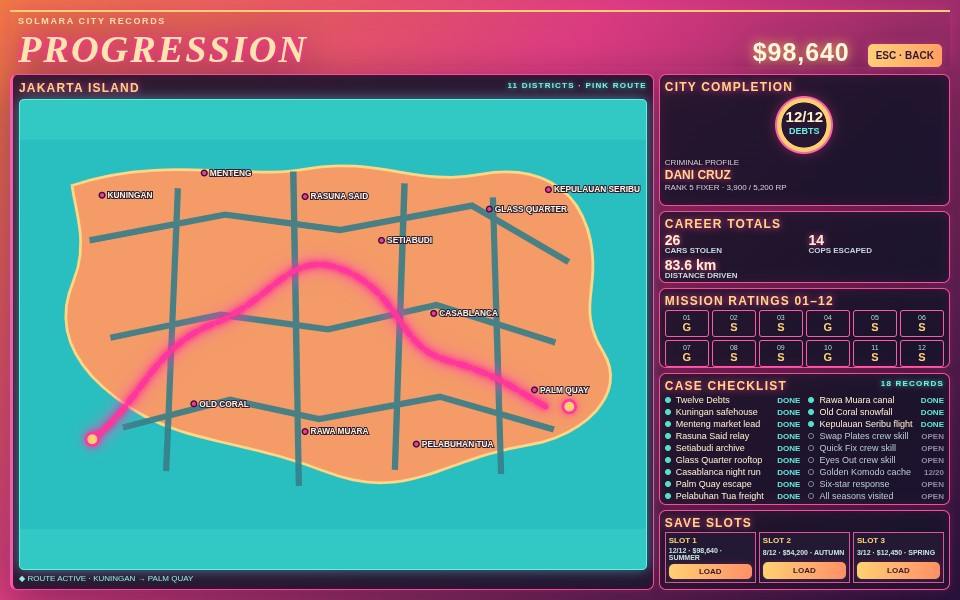
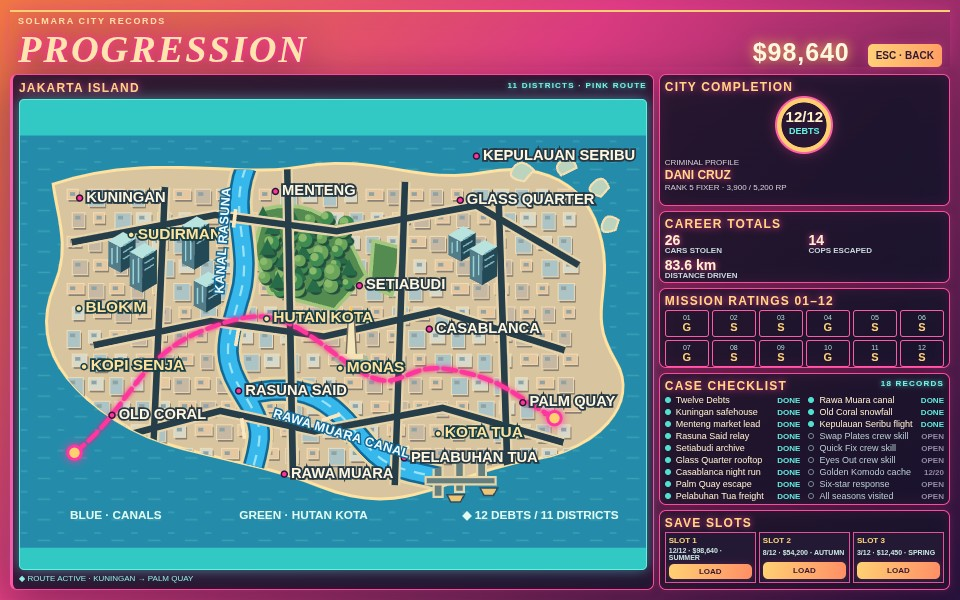
Bring Jakarta island map to life with canals forest and city detail

diff --git a/game/src/hud.js b/game/src/hud.js
@@ -141,9 +141,26 @@ export function drawHud(game){
   roster(game);drawLoadout(game);drawRadar(el('map'),game);
 }
 function cityMap(){
-  // The 900×560 viewBox keeps all eleven district labels in the island's original proportions.
-  const districts=[['KUNINGAN',118,80],['MENTENG',265,48],['RASUNA SAID',410,82],['SETIABUDI',520,145],['GLASS QUARTER',675,100],['CASABLANCA',595,250],['PALM QUAY',740,360],['PELABUHAN TUA',570,438],['RAWA MUARA',410,420],['OLD CORAL',250,380],['KEPULAUAN SERIBU',760,72]];
-  return '<svg class="jakarta-map" viewBox="0 0 900 560" role="img" aria-label="Jakarta island map with pink route"><path class="map-water" d="M0 0h900v560H0z"/><path class="map-land" d="M75 66C205 22 328 58 408 43c110-20 159 25 254 7 81-15 135 18 154 78 25 82-20 109 23 178 36 59-28 121-107 133-126 20-174 85-294 38-112-44-201-40-279-91-83-54-111-115-82-183 22-53 3-96-2-137z"/><path class="map-road" d="M100 145L295 108 460 130 650 95 789 176M130 285L289 252 443 273 599 238 770 292M148 414L302 374 430 402 604 370 768 417M227 70L210 477M393 46L401 498M553 63L539 475M680 83L692 481"/><path class="map-route" d="M104 431C175 377 189 300 278 265S388 153 469 189s74 109 146 129 84 34 141 66"/><circle class="map-pin" cx="104" cy="431" r="9"/><circle class="map-pin" cx="790" cy="384" r="9"/>'+districts.map(([n,x,y])=>'<g class="map-label" transform="translate('+x+' '+y+')"><circle r="4"/><text x="8" y="4">'+n+'</text></g>').join('')+'</svg>';
+  const shore='M75 66C205 22 328 58 408 43c110-20 159 25 254 7 81-15 135 18 154 78 25 82-20 109 23 178 36 59-28 121-107 133-126 20-174 85-294 38-112-44-201-40-279-91-83-54-111-115-82-183 22-53 3-96-2-137z';
+  const districts=[['KUNINGAN',111,85],['MENTENG',377,76],['RASUNA SAID',327,347],['SETIABUDI',491,204],['GLASS QUARTER',628,88],['CASABLANCA',586,263],['PALM QUAY',713,363],['PELABUHAN TUA',552,438],['RAWA MUARA',389,460],['OLD CORAL',155,380],['KEPULAUAN SERIBU',650,28]];
+  const roads='M100 145L295 108 460 130 650 95 789 176M130 285L289 252 443 273 599 238 770 292M148 414L302 374 430 402 604 370 768 417M227 70L210 447M393 46L401 478M553 63L539 475M680 83L692 451';
+  const river='M337 43C312 105 347 153 329 217S301 301 335 353 353 418 340 478M335 353C422 329 458 368 491 409S536 451 602 465';
+  const forest='M362 100Q432 81 478 143L500 190 457 237 369 214 347 158ZM510 143L549 153 535 217 505 205Z';
+  let blocks='',trees='',towers='';
+  // Repeated parcels have different footprints, courtyards and roof terraces.
+  for(let row=0;row<12;row++)for(let col=0;col<24;col++){
+    const x=94+col*29+(row%2)*7,y=73+row*32,k=(col*7+row*11)%9;
+    blocks+='<g transform="translate('+x+' '+y+')"><rect x="2" y="3" width="'+(15+k)+'" height="'+(14+k%4*3)+'" rx="1" fill="#8c8174"/><path d="M0 0h'+(15+k)+'v'+(14+k%4*3)+'H0z" fill="'+['#e5c7a1','#d7d9cb','#c7b8a3','#acc4c5'][k%4]+'" stroke="#f2dfb7" stroke-width="1.2"/><path d="M4 4h7v5H4z" fill="#8fa3a4"/></g>';
+  }
+  for(let i=0;i<54;i++){
+    const x=360+(i*37%118),y=111+(i*43%101),r=7+i%5;
+    trees+='<g transform="translate('+x+' '+y+')"><ellipse cx="3" cy="5" rx="'+r+'" ry="'+(r*.7)+'" fill="#244f3e"/>'+(i%3===0?'<path d="M0 -15L11 7H-11Z" fill="#286b48"/>':'<circle r="'+r+'" fill="'+(i%2?'#3f8c52':'#6ba45b')+'"/><circle cx="-3" cy="-3" r="'+r*.55+'" fill="#8bb96b"/>')+'</g>';
+  }
+  for(const [x,y,h] of [[150,177,34],[179,204,46],[250,173,51],[266,231,34],[612,162,27],[641,194,40]]){
+    towers+='<g transform="translate('+x+' '+y+')"><path d="M0 0l17 9 20 -12 -17 -9z" fill="#365968"/><path d="M0 0v-'+h+'l17 9V9z" fill="#527c8a"/><path d="M17 9v-'+h+'l20 -12v'+h+'z" fill="#234957"/><path d="M0 -'+h+'l20 -12 17 9 -20 12z" fill="#b9e3df"/><path d="M5 -'+(h-10)+'v'+(h-12)+'m7 -'+(h-10)+'v'+(h-12)+'" stroke="#99d6d9" stroke-width="2"/><path d="M20 -'+(h-7)+'l13 -8m-13 17l13 -8m-13 17l13 -8" stroke="#7fb2bb" stroke-width="2"/></g>';
+  }
+  const label=(n,x,y,cls='map-label')=>'<g class="'+cls+'" transform="translate('+x+' '+y+')"><circle r="4"/><text x="9" y="5">'+n+'</text></g>';
+  return '<svg class="jakarta-map" viewBox="30 0 850 540" role="img" aria-label="Living Jakarta: Kanal Rasuna and Rawa Muara canals, Hutan Kota forest, downtown towers, port and eleven named districts"><defs><clipPath id="island-shore"><path d="'+shore+'"/></clipPath><pattern id="sea-ripples" width="50" height="28" patternUnits="userSpaceOnUse"><path d="M4 18h17m10 -10h9" stroke="#80d7d5" stroke-opacity=".25" stroke-width="2"/></pattern></defs><path class="map-water" d="M0 0h900v560H0z"/><path d="M0 0h900v560H0z" fill="url(#sea-ripples)"/><path class="map-land" d="'+shore+'"/><g clip-path="url(#island-shore)">'+blocks+'<path d="'+forest+'" fill="#548b50" stroke="#a3c77d" stroke-width="5"/>'+trees+'<path d="'+river+'" fill="none" stroke="#ecd6a3" stroke-width="37"/><path d="'+river+'" fill="none" stroke="#126997" stroke-width="29"/><path d="'+river+'" fill="none" stroke="#37b8ed" stroke-width="22"/><path d="'+river+'" fill="none" stroke="#9ae3f7" stroke-width="3" stroke-dasharray="15 12"/><path d="'+roads+'" fill="none" stroke="#e9d5ac" stroke-width="15"/><path class="map-road" d="'+roads+'"/><path d="M323 100l-3 25m7 137l-4 24m8 98l4 28m105 -25l25 -8m68 51l26 -7" stroke="#fbe6be" stroke-width="5"/>'+towers+'<g transform="translate(480 285)"><ellipse cy="19" rx="23" ry="9" fill="#afba9c"/><path d="M-7 14L-4 -39 4 -39 7 14Z" fill="#f5e5ba" stroke="#766e61" stroke-width="2"/><path d="M-5 -40L0 -55 5 -40Z" fill="#ffc654"/><path d="M-16 15h32" stroke="#f4e2b4" stroke-width="7"/></g></g><g fill="#bcd4bd" stroke="#f5deb1" stroke-width="3"><path d="M728 47q-17 -18 -28 -3t15 18zM786 44q-5 -17 -19 -10t-2 20zM830 71q-7 -20 -21 -7t10 19zM843 115q-17 -12 -22 5t18 8z"/></g><g fill="#657e7e" stroke="#e8d5aa" stroke-width="3"><path d="M592 453v38h12v-41m17 -5v39h12v-43m18 -5v37h12v-42"/><path d="M581 464h95v10h-95z"/></g><g fill="#edc575" stroke="#314e61" stroke-width="2"><path d="M610 488h24l-6 10h-13zM655 479h24l-6 10h-13z"/></g><path class="map-route" d="M104 431C175 377 189 300 278 265S388 243 469 305s74 0 146 13 84 34 141 66"/><circle class="map-pin" cx="104" cy="431" r="9"/><circle class="map-pin" cx="756" cy="384" r="9"/>'+districts.map(([n,x,y])=>label(n,x,y)).join('')+[['KOPI SENJA',117,314],['BLOK M',110,235],['KOTA TUA',598,405],['SUDIRMAN',181,135],['HUTAN KOTA',365,249],['MONAS',465,316]].map(([n,x,y])=>label(n,x,y,'map-place')).join('')+'<g class="map-canal"><text transform="translate(306 215) rotate(-86)">KANAL RASUNA</text><text transform="translate(373 382) rotate(17)">RAWA MUARA CANAL</text></g><g class="map-key" transform="translate(98 521)"><text>BLUE · CANALS</text><text x="230">GREEN · HUTAN KOTA</text><text x="533">◆ 12 DEBTS / 11 DISTRICTS</text></g></svg>';
 }
 export function drawRecords(game){
   const p=game.profile,done=game.statsShot?12:Math.min(12,p.done||0),cash=game.statsShot?98640:p.cash||0;

diff --git a/game/src/radar.js b/game/src/radar.js
@@ -1,7 +1,7 @@
 import {canal,canalX,park,services,streets,cross} from './district.js';
 
 const center=200, radius=190;
-const colors={road:'#252832',edge:'#f2e3bc',water:'#2698d6',bank:'#e7cea0',park:'#78a267'};
+const colors={road:'#252832',edge:'#f2e3bc',water:'#23a6e5',bank:'#e7cea0',park:'#67994e'};
 export function radarProject(player,x,z,scale=1.45){
   return [center+(x-player.x)*scale,center-(z-player.z)*scale];
 }
@@ -44,10 +44,13 @@ export function drawRadar(canvas,game) {
     rect(x+36,z+36,44,44,'#e9dfc9');
   }
   rect(park.x,park.z,park.w,park.d,colors.park);
-  rect(park.x,park.z,2.5,park.d,'#dad0ad');rect(park.x,park.z,park.w,2.5,'#dad0ad');
+  rect(park.x,park.z,1.8,park.d,'#e5d8ad');rect(park.x,park.z,park.w,1.8,'#e5d8ad');
   for(const tree of game.city.trees){
     const [a,b]=project(tree.x,tree.z);
-    circle(ctx,a+1,b+2,3.4,'#597653');circle(ctx,a,b,2.8,'#407447');
+    circle(ctx,a+2,b+3,6.5,'#285c3e');
+    if(Math.round(tree.x)%3===0){
+      ctx.beginPath();ctx.moveTo(a,b-8);ctx.lineTo(a+6,b+5);ctx.lineTo(a-6,b+5);ctx.closePath();ctx.fillStyle='#2d7546';ctx.fill();
+    }else{circle(ctx,a,b,5.7,'#39884b');circle(ctx,a-1.8,b-1.8,3,'#94bb6d');}
   }
   const path=canal.map(([x,z])=>project(x,z));
   stroke(ctx,path,22*scale,colors.bank);stroke(ctx,path,12*scale,colors.water);
@@ -60,13 +63,18 @@ export function drawRadar(canvas,game) {
   for(const z of cross){
     const line=[project(-350,z),project(420,z)];
     stroke(ctx,line,22*scale,colors.edge);stroke(ctx,line,17*scale,colors.road);
+    const [bx,by]=project(canalX(z),z);
+    stroke(ctx,[[bx-12*scale,by-10*scale],[bx+12*scale,by-10*scale]],2.6,'#fff0c9');
+    stroke(ctx,[[bx-12*scale,by+10*scale],[bx+12*scale,by+10*scale]],2.6,'#fff0c9');
   }
   for(const b of game.city.buildings){
     if(Math.abs(b.x-p.x)>130||Math.abs(b.z-p.z)>135)continue;
     rect(b.x+1.3,b.z-1.6,b.w,b.d,'#97998c');
     rect(b.x,b.z,b.w,b.d,b.roof);
-    rect(b.x+.7,b.z+.5,b.w*.82,b.d*.75,'#c4c6be');
+    rect(b.x+.7,b.z+.5,b.w*.82,b.d*.75,b.h>30?'#7a9da9':'#bdbaa3');
     rect(b.x+b.w*.14,b.z-b.d*.12,b.w*.26,b.d*.28,'#eae9dc');
+    rect(b.x-b.w*.24,b.z+b.d*.2,b.w*.24,b.d*.22,'#eef0d6');
+    rect(b.x,b.z-b.d*.47,b.w*.83,1.2,'#536d76');
     rect(b.x-4.4,b.z+b.d*.39,.6,1.25,'#ffcb5f');
     rect(b.x+3.6,b.z+b.d*.39,.6,1.25,'#ffcc69');
   }
@@ -91,7 +99,10 @@ export function drawRadar(canvas,game) {
   const [lx,ly]=project(2,p.z-69);
   if(lx>126&&lx<277)caption(ctx,'JL. RASUNA SAID',lx+34,ly,14);
   const [px,py]=project(park.x,park.z);
-  if(Math.hypot(px-center,py-center)<142)caption(ctx,'MENTENG',px,py+17,13,'#fff4b9');
+  if(Math.hypot(px-center,py-center)<142){
+    caption(ctx,'HUTAN KOTA',px,py+17,16,'#e6ffbc');
+    caption(ctx,'MENTENG',px,py+34,13,'#fff4b9');
+  }
   ctx.save();ctx.translate(center,center);ctx.rotate(p.heading);
   ctx.beginPath();ctx.moveTo(0,-19);ctx.lineTo(11,11);ctx.lineTo(0,7);ctx.lineTo(-11,11);ctx.closePath();
   ctx.fillStyle='#fff';ctx.strokeStyle='#155e72';ctx.lineWidth=4;ctx.stroke();ctx.fill();

diff --git a/game/src/hud.css b/game/src/hud.css
@@ -158,3 +158,13 @@ body[data-screen=menu] #hud,body[data-screen=stats] #hud,body[data-screen=wanted
 #stats .save-grid b{font-size:8px}
 #stats .save-grid small{font-size:7px}
 #stats .save-grid button{font-size:8px}
+/* Atlas detail stays local to the records map; district names sit above parcels. */
+#stats .map-water{fill:#248caa}
+#stats .map-land{fill:#d8c49e;stroke:#ffe2a2}
+#stats .map-road{stroke:#263e49;stroke-width:9;opacity:1}
+#stats .map-route{stroke-width:6;filter:drop-shadow(0 0 3px #ff138b)}
+#stats .map-label text{font-size:20px;stroke-width:5px;stroke:#253844;fill:#fff6df}
+#stats .map-place text{font:bold 21px Arial;fill:#ffe29c;paint-order:stroke;stroke:#173d46;stroke-width:5px}
+#stats .map-place circle{fill:#ffe29c;stroke:#173d46;stroke-width:2px}
+#stats .map-canal text{font:bold 17px Arial;letter-spacing:.7px;fill:#f1fcff;paint-order:stroke;stroke:#126997;stroke-width:4px}
+#stats .map-key text{font:bold 16px Arial;fill:#e2faf2}
